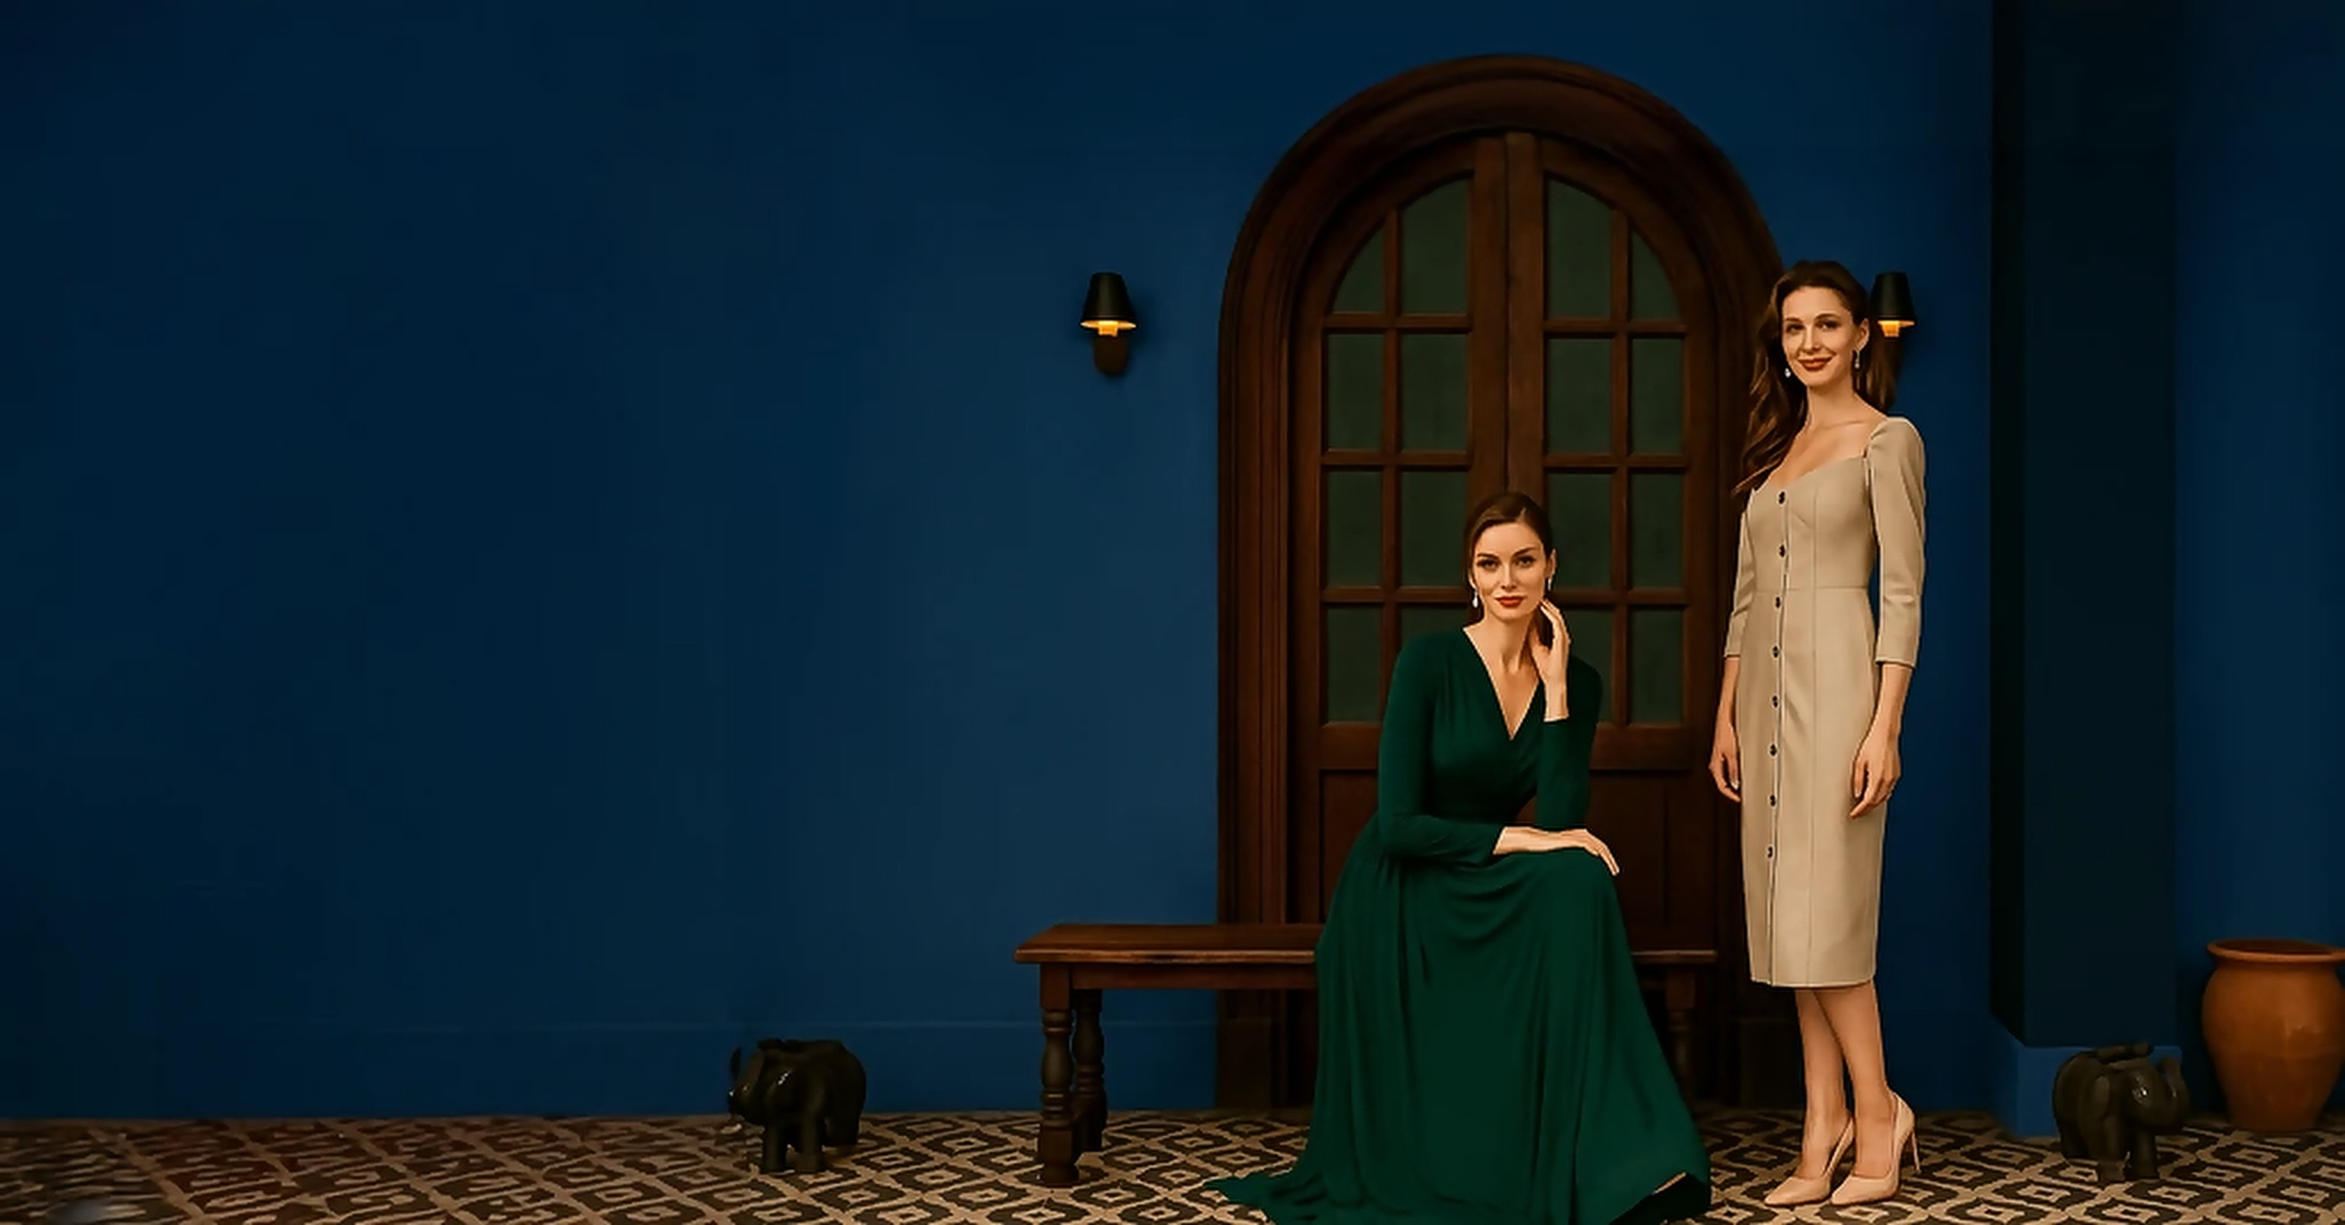
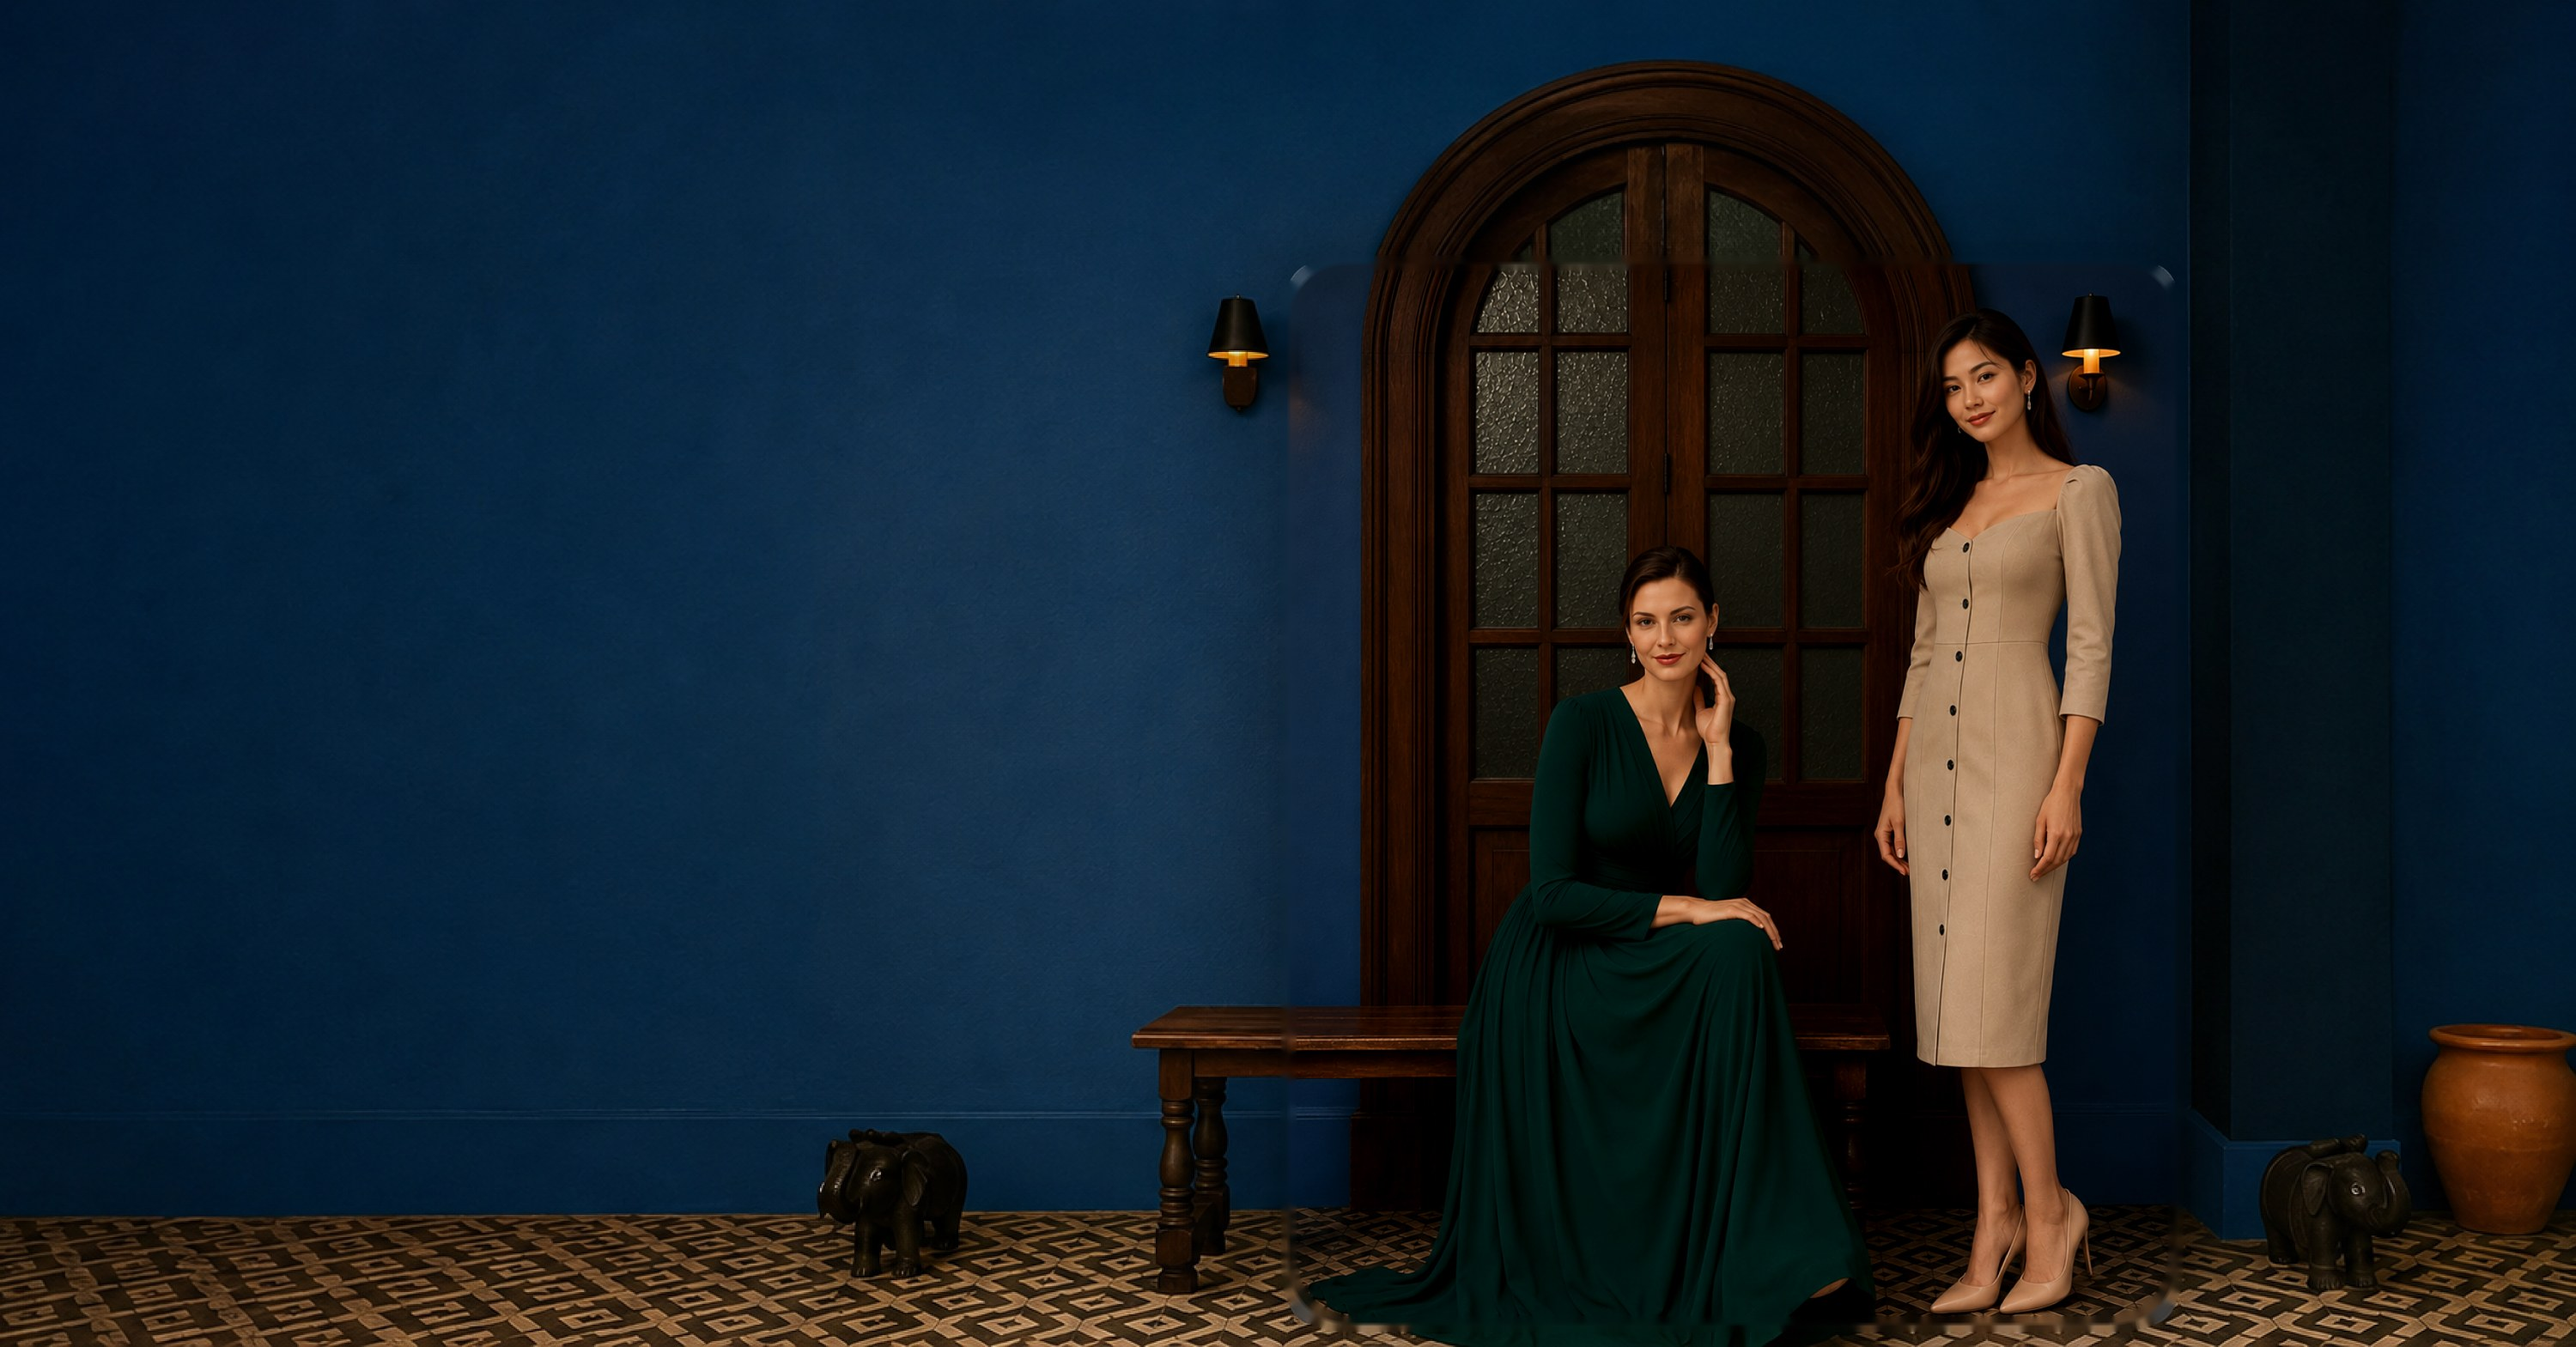
Use new high-res hero image (3000px), remove selection-box overlay, retune mobile crop

diff --git a/index.html b/index.html
@@ -44,7 +44,7 @@
       <!-- Hero: full-bleed -->
       <section class="hero">
         <div class="hero-bg">
-          <img src="images/hero-models.jpg" alt="" role="presentation" width="2732" height="1427" fetchpriority="high">
+          <img src="images/hero-models.jpg" alt="" role="presentation" width="3000" height="1569" fetchpriority="high">
         </div>
         <div class="hero-content container">
           <span class="eyebrow reveal">Est. 2007 &middot; Ghaziabad, India</span>

diff --git a/css/style.css b/css/style.css
@@ -259,9 +259,9 @@ section[id] { scroll-margin-top: 72px; }
   /* Frame seated model on the right and lift her so the torso reads above the
      bottom text block (standing model stays out of frame). */
   .hero-bg img {
-    object-position: 58% top;
+    object-position: 64% top;
     transform: scale(1.3) translateY(-12%);
-    transform-origin: 58% 38%;
+    transform-origin: 64% 38%;
   }
   .hero-bg::after {
     background:
